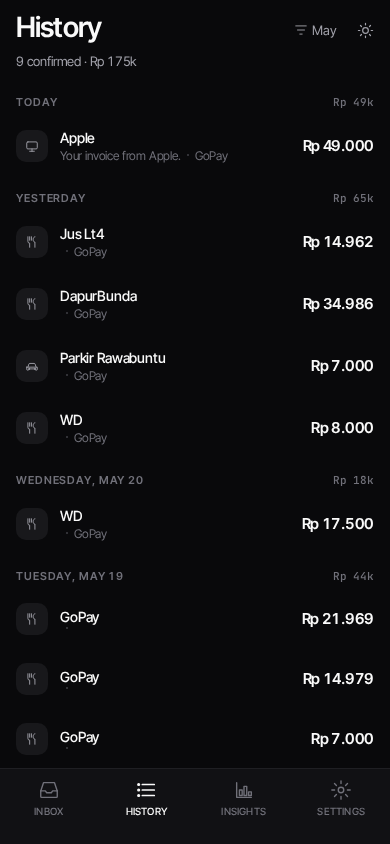
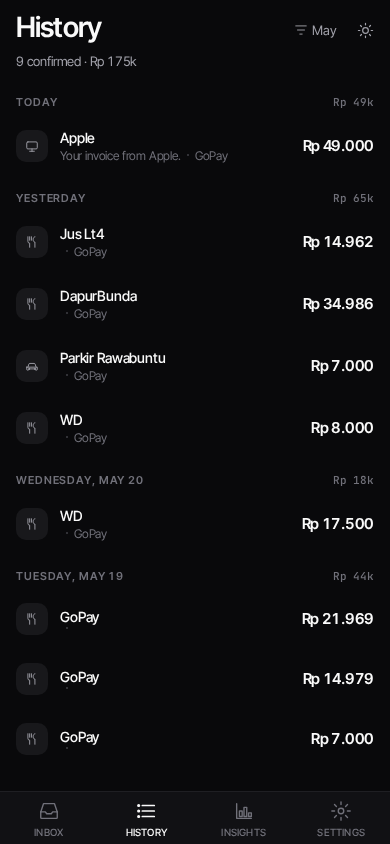
fix(mobile): ExpenseDetail blank, safe-area back button, tabbar hang
- Fixed React hooks violation: useSwipeBack was called inside if(overlay) → blank overlay
- Moved useSwipeBack + useCallback handler outside conditional (before loading check)
- overlay-topbar padding: max(var(--safe-top), 12px) — matches shdr, no more clash
- Tabbar: auto height + safe-area padding instead of fixed 76px (was overflowing)
- 12/12 E2E passing

diff --git a/src/index.css b/src/index.css
@@ -63,12 +63,9 @@
 *, *::before, *::after { box-sizing: border-box; }
 
 /*
-  Fullscreen (iOS PWA):
-  - html height set by --rh (real viewport from inline <script>)
-  - 100vh fallback for non-iOS browsers
-  - No position:fixed — pure flex chain: html → body → #root → .app
-  - Hardcoded #09090b bg at every level prevents gap color bleed
-  - Tabbar: solid bg, fixed height, no safe-area addition (causes overflow gap)
+  Height chain: html uses --rh set by inline <script> (real viewport height).
+  No dvh/vh — avoids iOS PWA miscalculation.
+  All ancestors 100% → .app inherits exact viewport height.
 */
 html {
   margin: 0; padding: 0;
@@ -110,7 +107,6 @@ body {
   overflow: hidden;
 }
 
-/* fills the content area between header and tab bar */
 .screen-inner {
   flex: 1;
   display: flex;
@@ -119,16 +115,15 @@ body {
   overflow: hidden;
 }
 
-/* tab bar — solid bg, NO extra safe-bottom margin (causes overflow gap on iOS) */
+/* tab bar — auto height, safe-bottom aware */
 .tabbar {
-  height: 76px;
   flex: 0 0 auto;
   border-top: 1px solid var(--line);
   background: var(--surface);
   display: flex;
-  align-items: flex-start;
-  padding-top: 10px;
-  padding-bottom: env(safe-area-inset-bottom, 0px);
+  align-items: center;
+  justify-content: space-around;
+  padding: 8px 0 calc(var(--safe-bottom) + 6px) 0;
 }
 .tabbar .tab {
   flex: 1;
@@ -152,7 +147,6 @@ body {
 }
 .tabbar .tab.active { color: var(--ink); }
 
-/* screen body — only scrollable area */
 .screen-body {
   flex: 1;
   overflow-y: auto;
@@ -191,12 +185,12 @@ body {
   margin-top: 2px;
 }
 
-/* overlay top bar — safe-area aware */
+/* overlay top bar — matches .shdr safe-area spacing */
 .overlay-topbar {
   display: flex;
   align-items: center;
   justify-content: space-between;
-  padding: max(env(safe-area-inset-top, 0px), 44px) 14px 4px;
+  padding: max(var(--safe-top), 12px) 14px 4px;
   flex-shrink: 0;
 }
 .overlay-topbar button {
@@ -212,7 +206,6 @@ body {
   font-family: inherit;
 }
 
-/* pill badge */
 .pill {
   display: inline-flex;
   align-items: center;
@@ -273,7 +266,6 @@ body {
   letter-spacing: -0.01em;
 }
 
-/* buttons */
 .btn {
   display: inline-flex;
   align-items: center;
@@ -298,7 +290,6 @@ body {
 .btn.ghost { background: transparent; color: var(--ink-2); }
 .btn.outline { background: transparent; border: 1px solid var(--line-2); color: var(--ink); }
 
-/* expense row */
 .row {
   display: flex;
   align-items: center;
@@ -348,13 +339,11 @@ body {
   flex-shrink: 0;
 }
 
-/* desktop */
 .app.desktop {
   max-width: 100%;
   height: 100%;
 }
 
-/* mini chart bar */
 .bar {
   flex: 1;
   background: var(--surface-2);

diff --git a/src/App.jsx b/src/App.jsx
@@ -132,6 +132,16 @@ export default function App() {
     onEdit: () => pending[safePendingIdx] && setOverlay({ view: VIEW.DETAIL, expenseId: pending[safePendingIdx].id, editing: true }),
   })
 
+  const swipeBackHandler = useCallback(() => {
+    if (overlay?.view === VIEW.SOURCE) {
+      setOverlay(prev => ({ ...prev, view: VIEW.DETAIL }))
+    } else {
+      setOverlay(null)
+    }
+  }, [overlay])
+
+  const swipeProps = useSwipeBack({ onSwipeBack: swipeBackHandler, enabled: !isDesktop && !!overlay })
+
   const sharedProps = { theme, onToggleTheme: toggleTheme }
 
   if (loading) {
@@ -171,16 +181,6 @@ export default function App() {
   // ── Mobile layout ───────────────────────────────────────────
   if (overlay) {
     const expense = expenses.find(e => e.id === overlay.expenseId)
-
-    const swipeBack = () => {
-      if (overlay.view === VIEW.SOURCE) {
-        setOverlay(prev => ({ ...prev, view: VIEW.DETAIL }))
-      } else {
-        setOverlay(null)
-      }
-    }
-
-    const swipeProps = useSwipeBack({ onSwipeBack: swipeBack, enabled: !isDesktop })
 
     if (overlay.view === VIEW.SOURCE) {
       return (